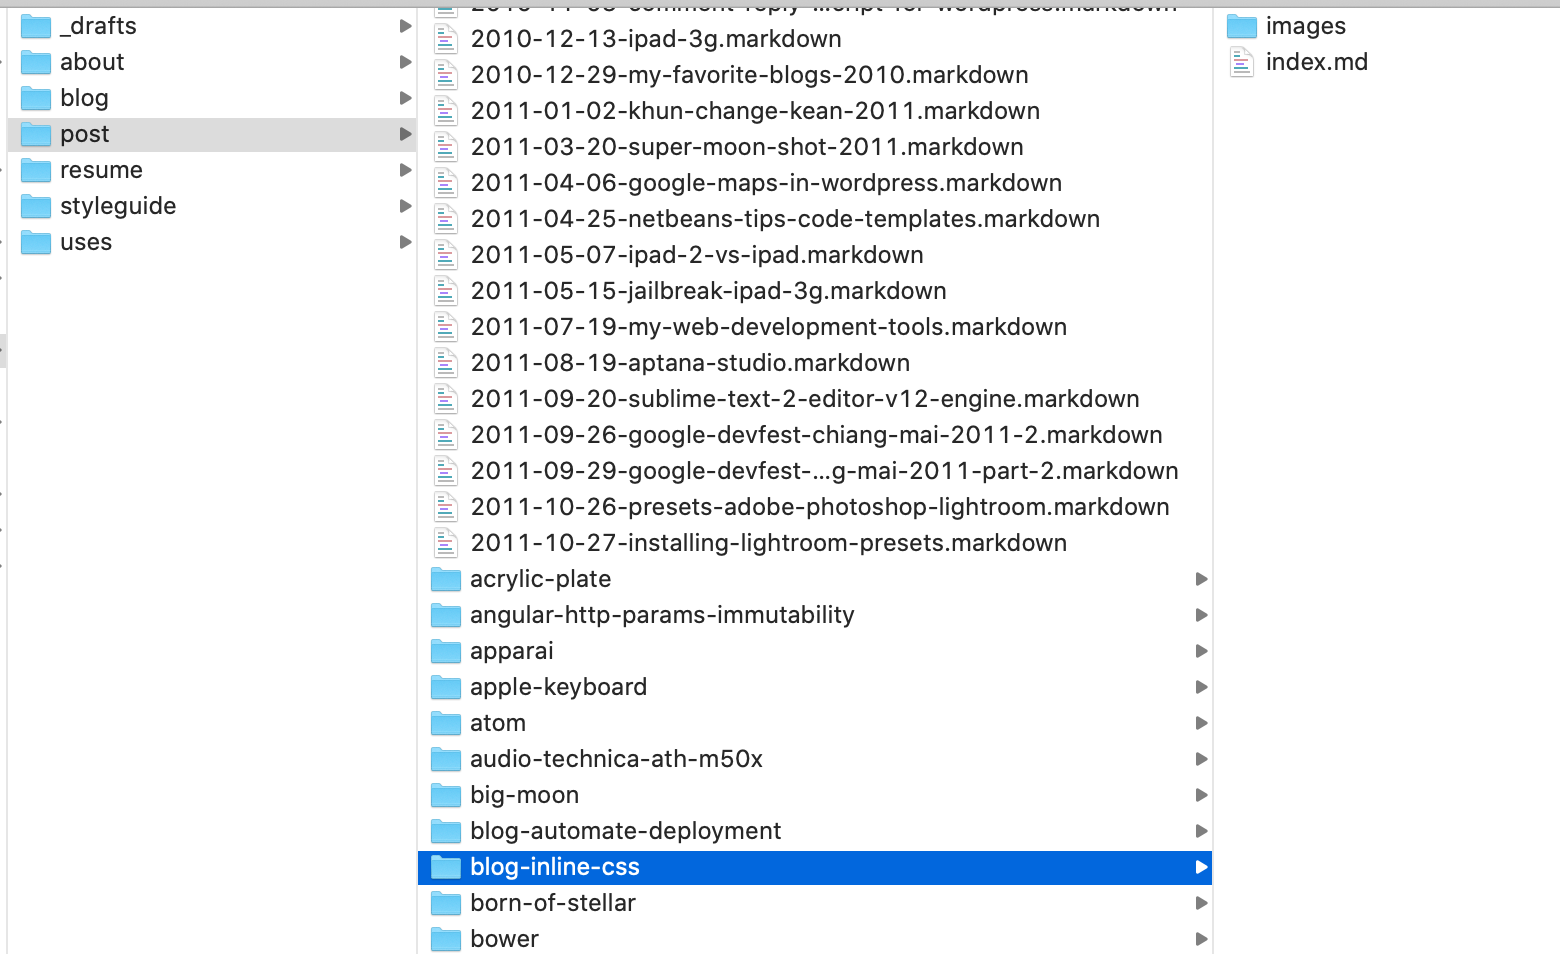
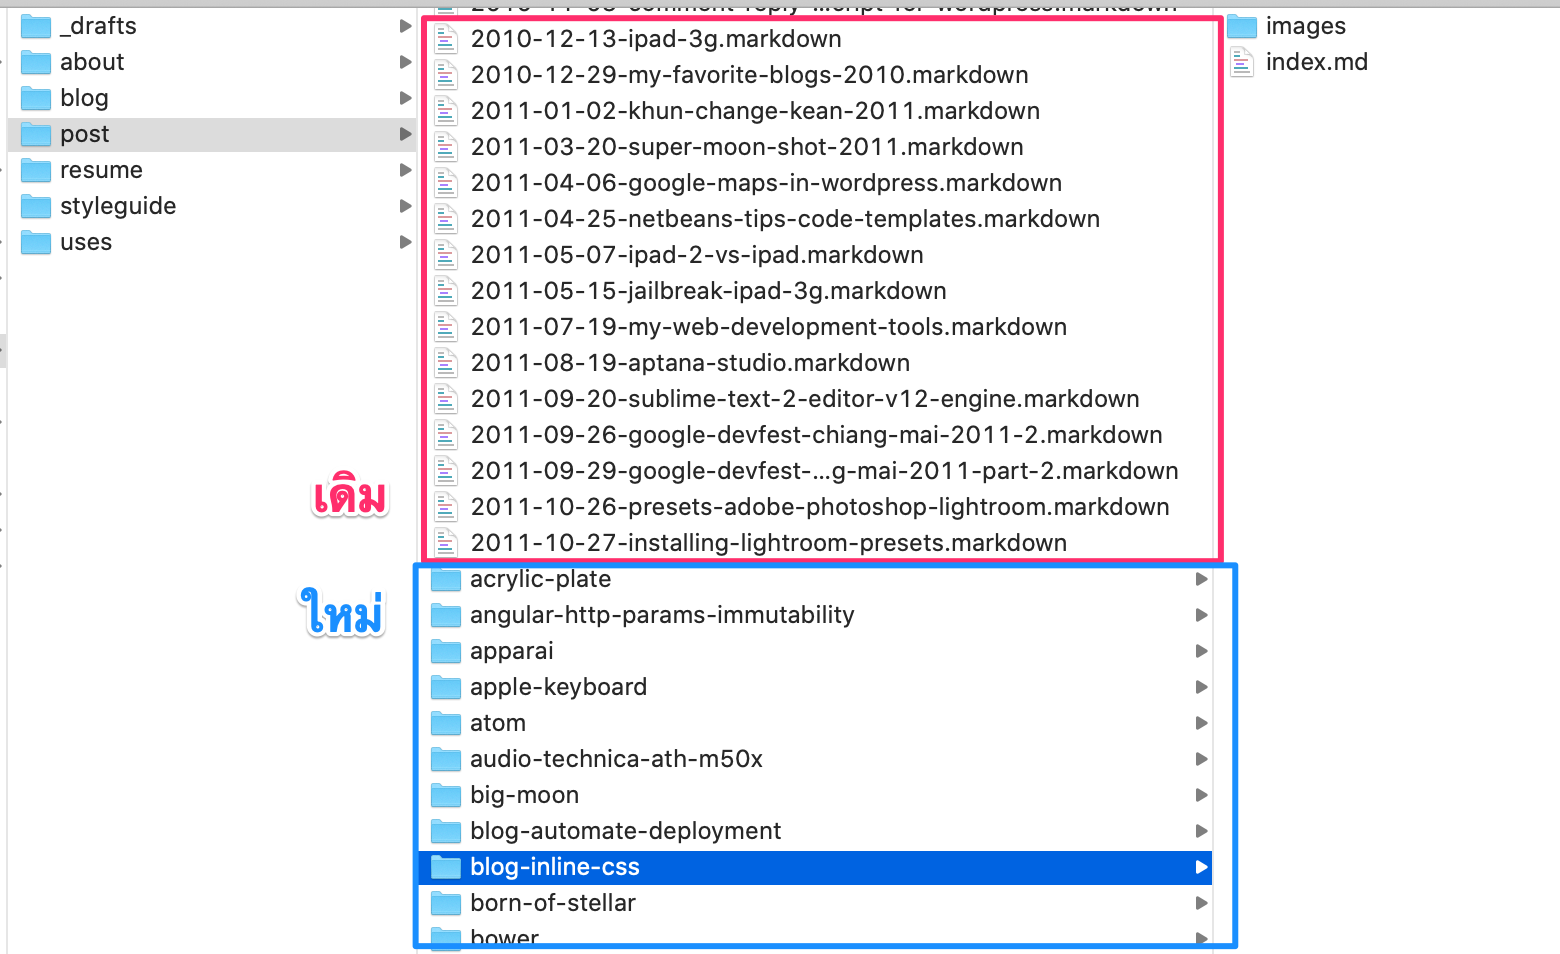
add more content

Changed region(s): [[0.1846, 0.0, 0.8, 1.0]]

diff --git a/content/post/proactively-lazy/index.md b/content/post/proactively-lazy/index.md
@@ -26,7 +26,7 @@ categories:
 
 อยากจัดระเบียบให้มันหน่อย
 
-![](images/original-structure.png)
+{{< image src="images/original-structure.png" alt="original structure" width="780" >}}
 
 ## ภารกิจ
 
@@ -39,8 +39,85 @@ categories:
 
 ### วางแผน
 
-1. loop ไฟล์ `.markdown` ทั้งหมดในโฟลเดอร์ `content/post/`
-2. ตัดส่วนวันที่ออกจากชื่อไฟล์ `20xx-xx-xx-`
-3. ตัดส่วน extension `.markdown` ออกจากชื่อไฟล์
-4. ก็จะเหลือ post slug ตรงกลาง สร้างโฟลเดอร์ใหม่จากชื่อนี้
-5. ย้ายไฟล์ `.markdown` ไปเป็น `index.md` ในโฟลเดอร์ที่สร้างใหม่
+1. ใช้ shell script
+2. loop ไฟล์ `.markdown` ทั้งหมดในโฟลเดอร์ `content/post/`
+3. ตัดส่วนวันที่ออกจากชื่อไฟล์ `20xx-xx-xx-` (เอาออกได้เพราะข้อมูลวันที่อยู่ใน front-matter ของแต่ละไฟล์อยู่แล้ว)
+4. ตัดส่วน extension `.markdown` ออกจากชื่อไฟล์
+5. ก็จะเหลือ post slug ตรงกลาง สร้างโฟลเดอร์ใหม่จากชื่อนี้
+6. ย้ายไฟล์ `.markdown` ไปเป็น `index.md` ในโฟลเดอร์ที่สร้างใหม่
+
+{{< image src="images/pattern.png" alt="pattern" width="532" >}}
+
+### 1. สร้างไฟล์ script
+
+ผมเริ่มจากการสร้างไฟล์ shell script ไว้ข้างในโฟลเดอร์เดียวกับไฟล์ที่จะทำงาน
+พร้อมกับทำให้มันรันได้ ด้วยการเปลี่ยน permission เป็น `+x` (e**x**ecutable)
+
+```sh
+$ cd content/post/
+$ touch rename.sh
+$ chmod +x rename.sh
+```
+
+คุ้นๆ ว่าในบรรทัดแรกของ shell script มันต้องมีอะไรพิเศษสักอย่าง
+เลยเสิชกูเกิลด้วย keyword `bash first line`
+
+ก็พบว่า บรรทัดนั้นคือ [shebang](https://en.wikipedia.org/wiki/Shebang_(Unix)) หรือ sha-bang หรือ hashbang
+มีไว้เลือก shell ว่าจะรัน script ใน shell ไหน
+ผมเลือก `bash` ไว้ก่อนเพราะคิดว่าเซฟสุด
+
+```sh
+#!/bin/bash
+```
+
+### 2. loop ไฟล์ `.markdown`
+
+จากนั้นก็เสิชหาวิธีการ loop ไฟล์ในโฟลเดอร์นั้นทำยังไงด้วย keyword: `bash list files in directory`
+เจอคำตอบจาก [StackOverflow](https://stackoverflow.com/a/43661580)
+
+```sh {hl_lines=[3,"5-6",9]}
+#!/bin/bash
+
+markdownfiles=`ls *.markdown`
+
+for file in $markdownfiles
+do
+  # something ...
+  echo $file
+done
+```
+
+- list file markdown ด้วย `ls`
+- ใช้ <code>`</code> (backtick) เพื่อเก็บ output จาก command ไว้ใน variable
+- จากนั้น loop ด้วย `for ... in`
+- เปิด block ด้วย `do` จบด้วย `done`
+- เวลาประกาศ variable
+  - ไม่ต้องใช้ `$` แต่เวลาเรียกใช้ ต้องมี `$` ข้างหน้า
+  - เว้นวรรคตรงเครื่องหมาย `=` ไม่ได้ ต้องเขียนติดกัน (เว้นวรรคถือว่าเป็น argument ของ command)
+
+### 3. ตัดวันที่ชื่อออกจากชื่อไฟล์
+
+วันที่ในชื่อไฟล์อยู่ใน pattern เดียวกันหมด คือ นำหน้าด้วย `YYYY-MM-DD-`
+เป็นตัอสักษร 11 ตัวแรกของชื่อไฟล์ ก็ใช้วิธีบ้่านๆ เลย คือการตัด string
+
+ผมเสิชหาด้วย keyword `bash cut string` เจอกระทู้ใน [StackOverflow](https://stackoverflow.com/a/19482947) อีกแล้ว
+
+```sh {hl_lines=[7]}
+#!/bin/bash
+
+markdownfiles=`ls *.markdown`
+
+for file in $markdownfiles
+do
+  filename=${file:11}
+done
+```
+
+- `${file:11}` ตัดตัวอักษร 11 ตัวแรก แล้ว return ส่วนที่เหลือ
+- แต่ถ้าเป็น `${file::11}` (มี `:` สองอัน) คือตัดเอาเฉพาะ 11 ตัวแรก
+
+### 4. ตัด `.markdown` ออกจากชื่อไฟล์
+
+### 5. เก็บส่วนที่เหลือไว้ สร้างโฟลเดอร์ใหม่
+
+### 6. ย้ายไฟล์เดิมไปที่ใหม่
